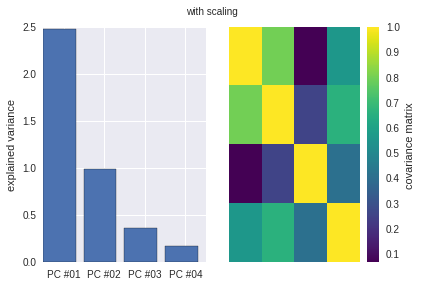
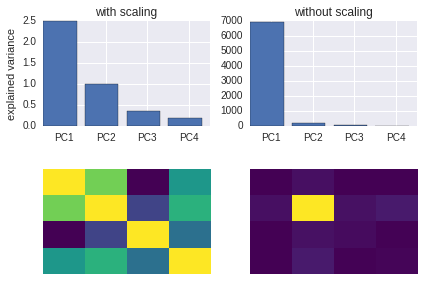
wrong date in post

diff --git a/_site/blog/index.html b/_site/blog/index.html
@@ -100,6 +100,22 @@
 <ul class="post-list">
   
     <li>
+      <span class="post-meta">Apr 27, 2017</span>
+      <h2>
+        <a class="post-link" href="/research/2017/04/27/scale-data-pca.html">Beward of standardizing data before running PCA!</a>
+      </h2>
+      
+      <img style='width:80%;display:block;margin:auto;margin-bottom:2em;'
+src="/assets/scaling_files/scaling_6_0.png" alt="" title="">
+
+      <p>Standardization is important in PCA since the latter is a variance maximizing exercise.
+It projects your original data onto directions which maximize the variance. If your
+features have different scales, then this projection may get screwed!</p>
+
+
+    </li>
+  
+    <li>
       <span class="post-meta">Oct 22, 2016</span>
       <h2>
         <a class="post-link" href="/research/2016/10/22/VAE.html">Variational auto-encoder for "Frey faces" using keras</a>
@@ -169,22 +185,6 @@ online nature of our proposed algorithm allows it to scale to
 arbitrarily sized datasets. Experiments on brain data show that our proposed method extracts structured and
 denoised dictionaries that are more intepretable and better capture inter-subject variability in small medium,
 and large-scale regimes alike, compared to state-of-the-art models.</p>
-
-
-    </li>
-  
-    <li>
-      <span class="post-meta">Oct 7, 2016</span>
-      <h2>
-        <a class="post-link" href="/research/2016/10/07/scale-data-pca.html">The importance of standardizing data before running PCA</a>
-      </h2>
-      
-      <img style='width:80%;display:block;margin:auto;margin-bottom:2em;'
-src="/assets/scaling_files/scaling_6_1.png" alt="" title="">
-
-      <p>Standardization is important in PCA since the latter is a variance maximizing exercise.
-It projects your original data onto directions which maximize the variance. If your
-features have different scales, then this projection may get screwed!</p>
 
 
     </li>
